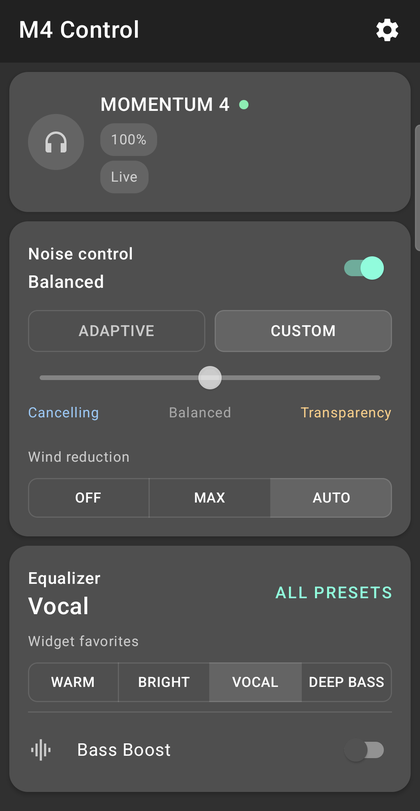
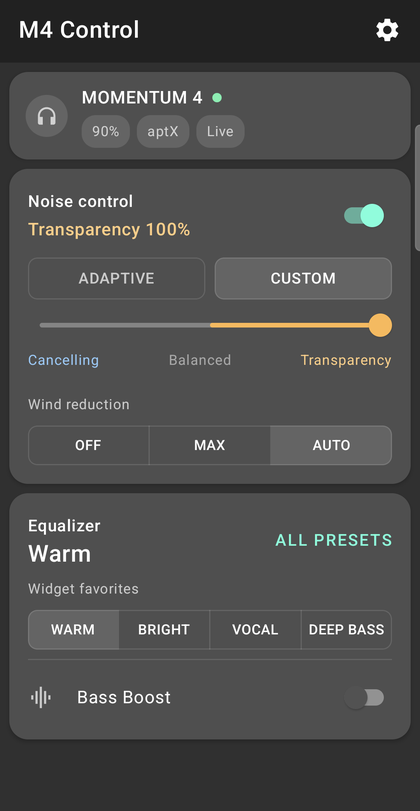
Compact headphones card on the home screen
Battery, codec and freshness now share one row of pills next to the name,
with a smaller icon and tighter padding, so the card is about 40% shorter
and the home screen fits without scrolling. README main-screen screenshot
updated.

diff --git a/app/src/main/java/cz/metlicka/m4control/ui/MainActivity.kt b/app/src/main/java/cz/metlicka/m4control/ui/MainActivity.kt
@@ -25,6 +25,7 @@ import androidx.compose.foundation.rememberScrollState
 import androidx.compose.foundation.shape.CircleShape
 import androidx.compose.foundation.shape.RoundedCornerShape
 import androidx.compose.foundation.verticalScroll
+import androidx.compose.material.Card
 import androidx.compose.material.Icon
 import androidx.compose.material.IconButton
 import androidx.compose.material.Scaffold
@@ -168,15 +169,17 @@ private fun HomeScreen(st: AppState, onEq: () -> Unit, onSettings: () -> Unit) {
 private fun DeviceCard(st: AppState) {
     val c = LocalM4.current
     val s = st.snapshot
-    M4Card {
-        Row(verticalAlignment = Alignment.CenterVertically) {
-            Box(Modifier.size(48.dp).clip(CircleShape).background(c.selected), contentAlignment = Alignment.Center) {
-                Icon(painterResource(R.drawable.ic_headset), null, tint = c.fg2)
+    // Compact: icon, name + link dot, and one row of pills (battery, codec, freshness).
+    Card(Modifier.fillMaxWidth().padding(vertical = 4.dp), shape = RoundedCornerShape(16.dp), backgroundColor = c.card, elevation = 2.dp) {
+        Row(Modifier.padding(horizontal = 14.dp, vertical = 10.dp), verticalAlignment = Alignment.CenterVertically) {
+            Box(Modifier.size(36.dp).clip(CircleShape).background(c.selected), contentAlignment = Alignment.Center) {
+                Icon(painterResource(R.drawable.ic_headset), null, tint = c.fg2, modifier = Modifier.size(20.dp))
             }
-            RowGap(14)
+            RowGap(12)
             Column(Modifier.weight(1f)) {
                 Row(verticalAlignment = Alignment.CenterVertically) {
-                    Text(st.deviceName ?: "Headphones", fontSize = 16.sp, fontWeight = FontWeight.Medium, color = c.fg)
+                    Text(st.deviceName ?: "Headphones", fontSize = 15.sp, fontWeight = FontWeight.Medium, color = c.fg,
+                        maxLines = 1, overflow = androidx.compose.ui.text.style.TextOverflow.Ellipsis, modifier = Modifier.weight(1f, fill = false))
                     RowGap(8)
                     StatusDot(when (st.link) {
                         LinkState.CONNECTED -> c.ok
@@ -188,14 +191,13 @@ private fun DeviceCard(st: AppState) {
                         Caption("Connecting…")
                     }
                 }
-                Gap(4)
+                Gap(3)
                 Row(horizontalArrangement = Arrangement.spacedBy(6.dp)) {
                     val battery = s.battery?.let { "$it%" } ?: "—"
                     Chip(if (s.charging == 1) "$battery ⚡" else battery)
                     if (st.link == LinkState.CONNECTED) s.codec?.let { Codec.CODECS[it] }?.let { Chip(it) }
+                    Chip(if (st.sessionOpen) "Live" else if (st.stale) "Last known · ${agoText(st.lastSyncedAt)}" else "Updated ${agoText(st.lastSyncedAt)}")
                 }
-                Gap(4)
-                Chip(if (st.sessionOpen) "Live" else if (st.stale) "Last known · ${agoText(st.lastSyncedAt)}" else "Updated ${agoText(st.lastSyncedAt)}")
             }
         }
     }
